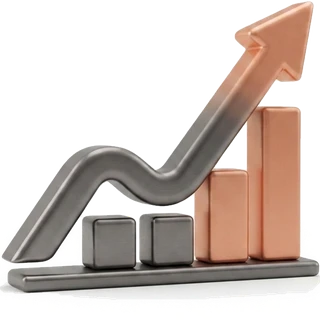
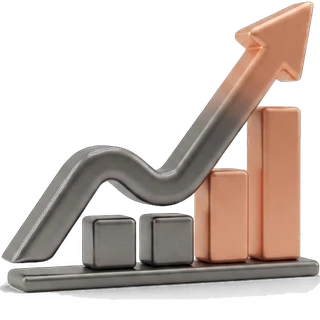
Add files via upload

diff --git a/index.html b/index.html
@@ -874,7 +874,7 @@ gtag('consent', 'default', {
         </div>
         <div class="approach-card" style="background:#fff;border:1px solid rgba(22,18,14,.07);border-radius:18px;padding:28px;position:relative;box-shadow:0 1px 2px rgba(22,18,14,.04),0 14px 34px rgba(22,18,14,.04)">
           <div style="font-family:'Space Grotesk',sans-serif;font-size:13px;font-weight:700;color:#F2670F;letter-spacing:.04em">STEP 04</div>
-          <img src="icon-growth.webp?v=3" alt="" width="150" height="150" style="width:150px;height:150px;object-fit:cover;border-radius:16px;margin:8px 0 0;display:block">
+          <img src="icon-growth.webp?v=4" alt="" width="150" height="150" style="width:150px;height:150px;object-fit:cover;border-radius:16px;margin:8px 0 0;display:block">
           <h3 style="font-family:'Space Grotesk',sans-serif;font-size:20px;font-weight:600;margin:18px 0 0">Growth</h3>
           <p style="font-size:14px;line-height:1.55;color:#6B6258;margin:8px 0 0">We launch, rebuild or scale on a foundation that's actually ready.</p>
         </div>